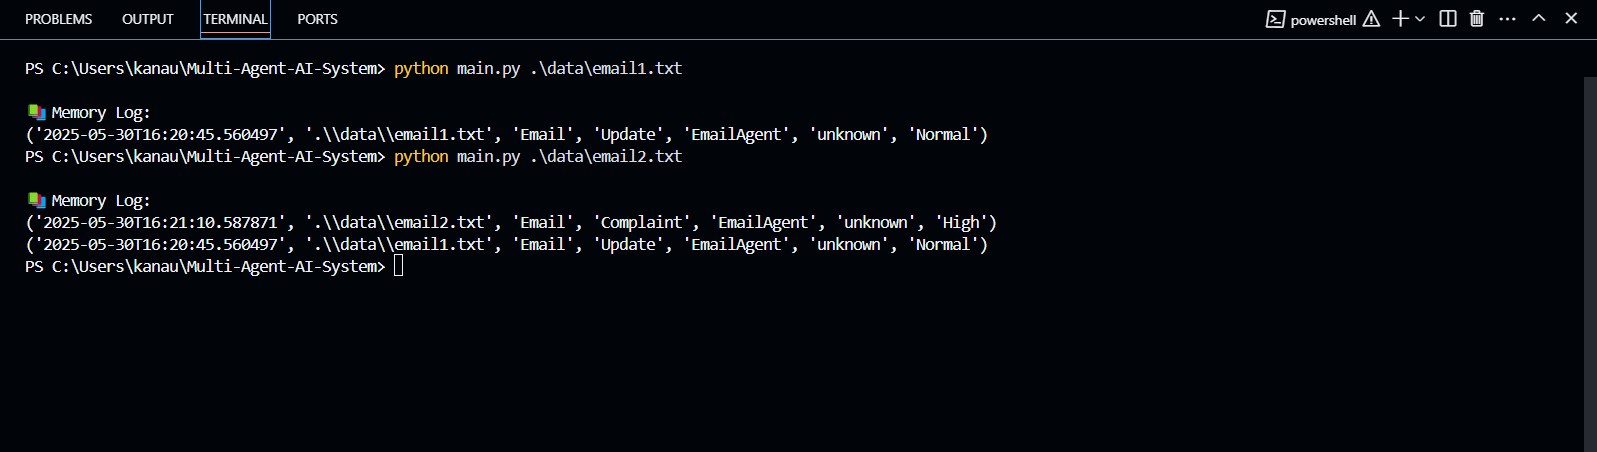
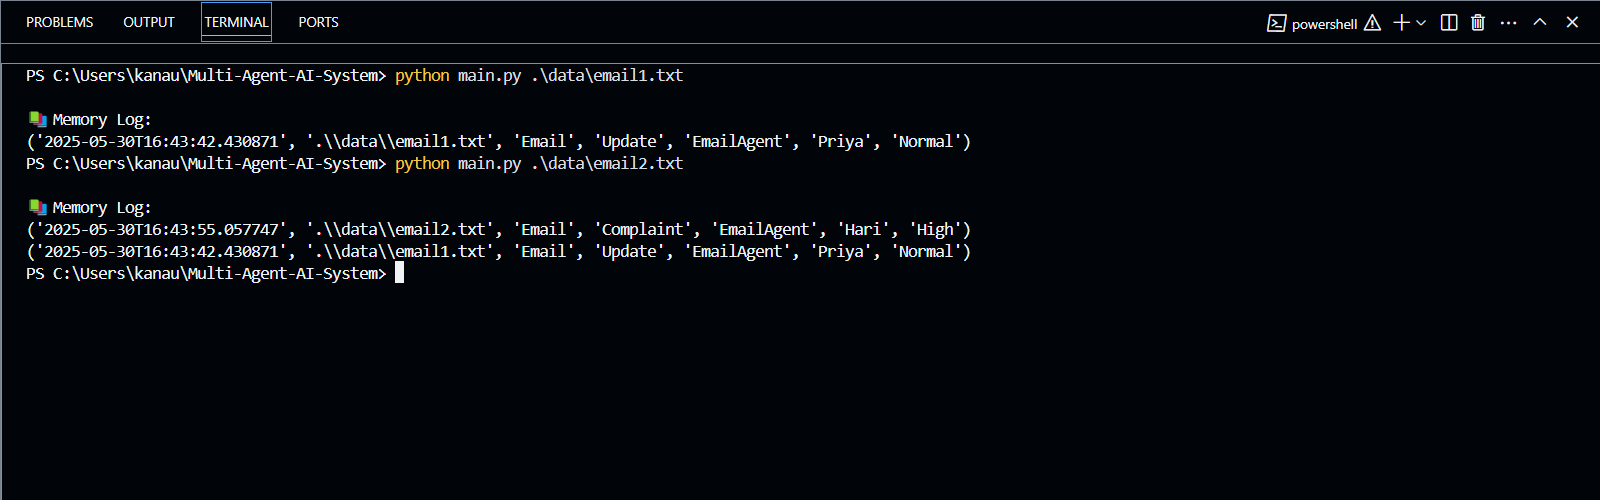
Final Commit

diff --git a/email_agent.py b/email_agent.py
@@ -10,7 +10,7 @@ def process_email(text,filename,intent):
 
     sender = client.models.generate_content(
         model="gemini-2.0-flash",
-        contents=f"Extract just the sender from the email and if there is no sender just say unknown\n {text}",
+        contents=f"Extract just the sender's name from the email and if there is no sender just say unknown\n {text}",
     )
     urgency = client.models.generate_content(
         model="gemini-2.0-flash",

diff --git a/pdf_agent.py b/pdf_agent.py
@@ -11,7 +11,7 @@ def process_pdf(data,filename,intent):
 
     sender = client.models.generate_content(
         model="gemini-2.0-flash",
-        contents=f"Extract just the sender from the text and if there is no sender just say unknown\n {data}",
+        contents=f"Extract just the sender's name from the text and if there is no sender just say unknown\n {data}",
     )
     urgency = client.models.generate_content(
         model="gemini-2.0-flash",
